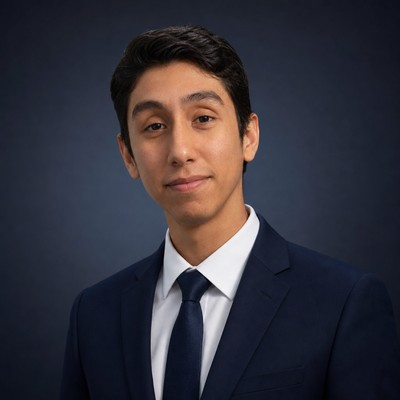
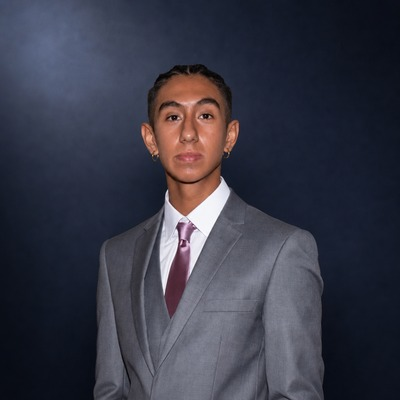
feat: update Angel Molina headshot + add city skyline backgrounds
- Replace Angel Molina team photo with professional dark navy studio backdrop
- Add twilight city skyline images for Austin TX, Orange County CA, Charlotte NC
- Apply subtle translucent city backgrounds to About, What We Do, and Training sections
- City images use CSS mask-image gradient for elegant fade effect at ~10% opacity

diff --git a/index.html b/index.html
@@ -49,7 +49,7 @@
     </nav>
 
     <!-- About Section (Top of page) -->
-    <section class="section section-first" id="about">
+    <section class="section section-first city-bg city-bg-austin" id="about">
         <div class="container">
             <div class="section-header">
                 <div class="hero-badge">
@@ -114,7 +114,7 @@
     </section>
 
     <!-- Our Services Section -->
-    <section class="section section-dark" id="what-we-do">
+    <section class="section section-dark city-bg city-bg-oc" id="what-we-do">
         <div class="container">
             <div class="section-header">
                 <span class="section-tag">Our Solutions</span>
@@ -256,7 +256,7 @@
     </section>
 
     <!-- Training & Growth Section -->
-    <section class="section section-dark" id="training">
+    <section class="section section-dark city-bg city-bg-charlotte" id="training">
         <div class="container">
             <div class="training-layout">
                 <div class="training-text">

diff --git a/styles.css b/styles.css
@@ -160,6 +160,37 @@ body {
     border-bottom: 1px solid var(--border);
 }
 
+/* --- City Skyline Backgrounds --- */
+.city-bg {
+    overflow: hidden;
+}
+
+.city-bg::before {
+    content: '';
+    position: absolute;
+    inset: 0;
+    background-size: cover;
+    background-position: center bottom;
+    background-repeat: no-repeat;
+    opacity: 0.10;
+    z-index: -1;
+    pointer-events: none;
+    mask-image: linear-gradient(to top, rgba(0,0,0,0.6) 0%, rgba(0,0,0,0.2) 50%, transparent 85%);
+    -webkit-mask-image: linear-gradient(to top, rgba(0,0,0,0.6) 0%, rgba(0,0,0,0.2) 50%, transparent 85%);
+}
+
+.city-bg-austin::before {
+    background-image: url('cities/austin-tx.jpg');
+}
+
+.city-bg-oc::before {
+    background-image: url('cities/orange-county-ca.jpg');
+}
+
+.city-bg-charlotte::before {
+    background-image: url('cities/charlotte-nc.jpg');
+}
+
 /* --- Typography --- */
 .section-header {
     text-align: center;
